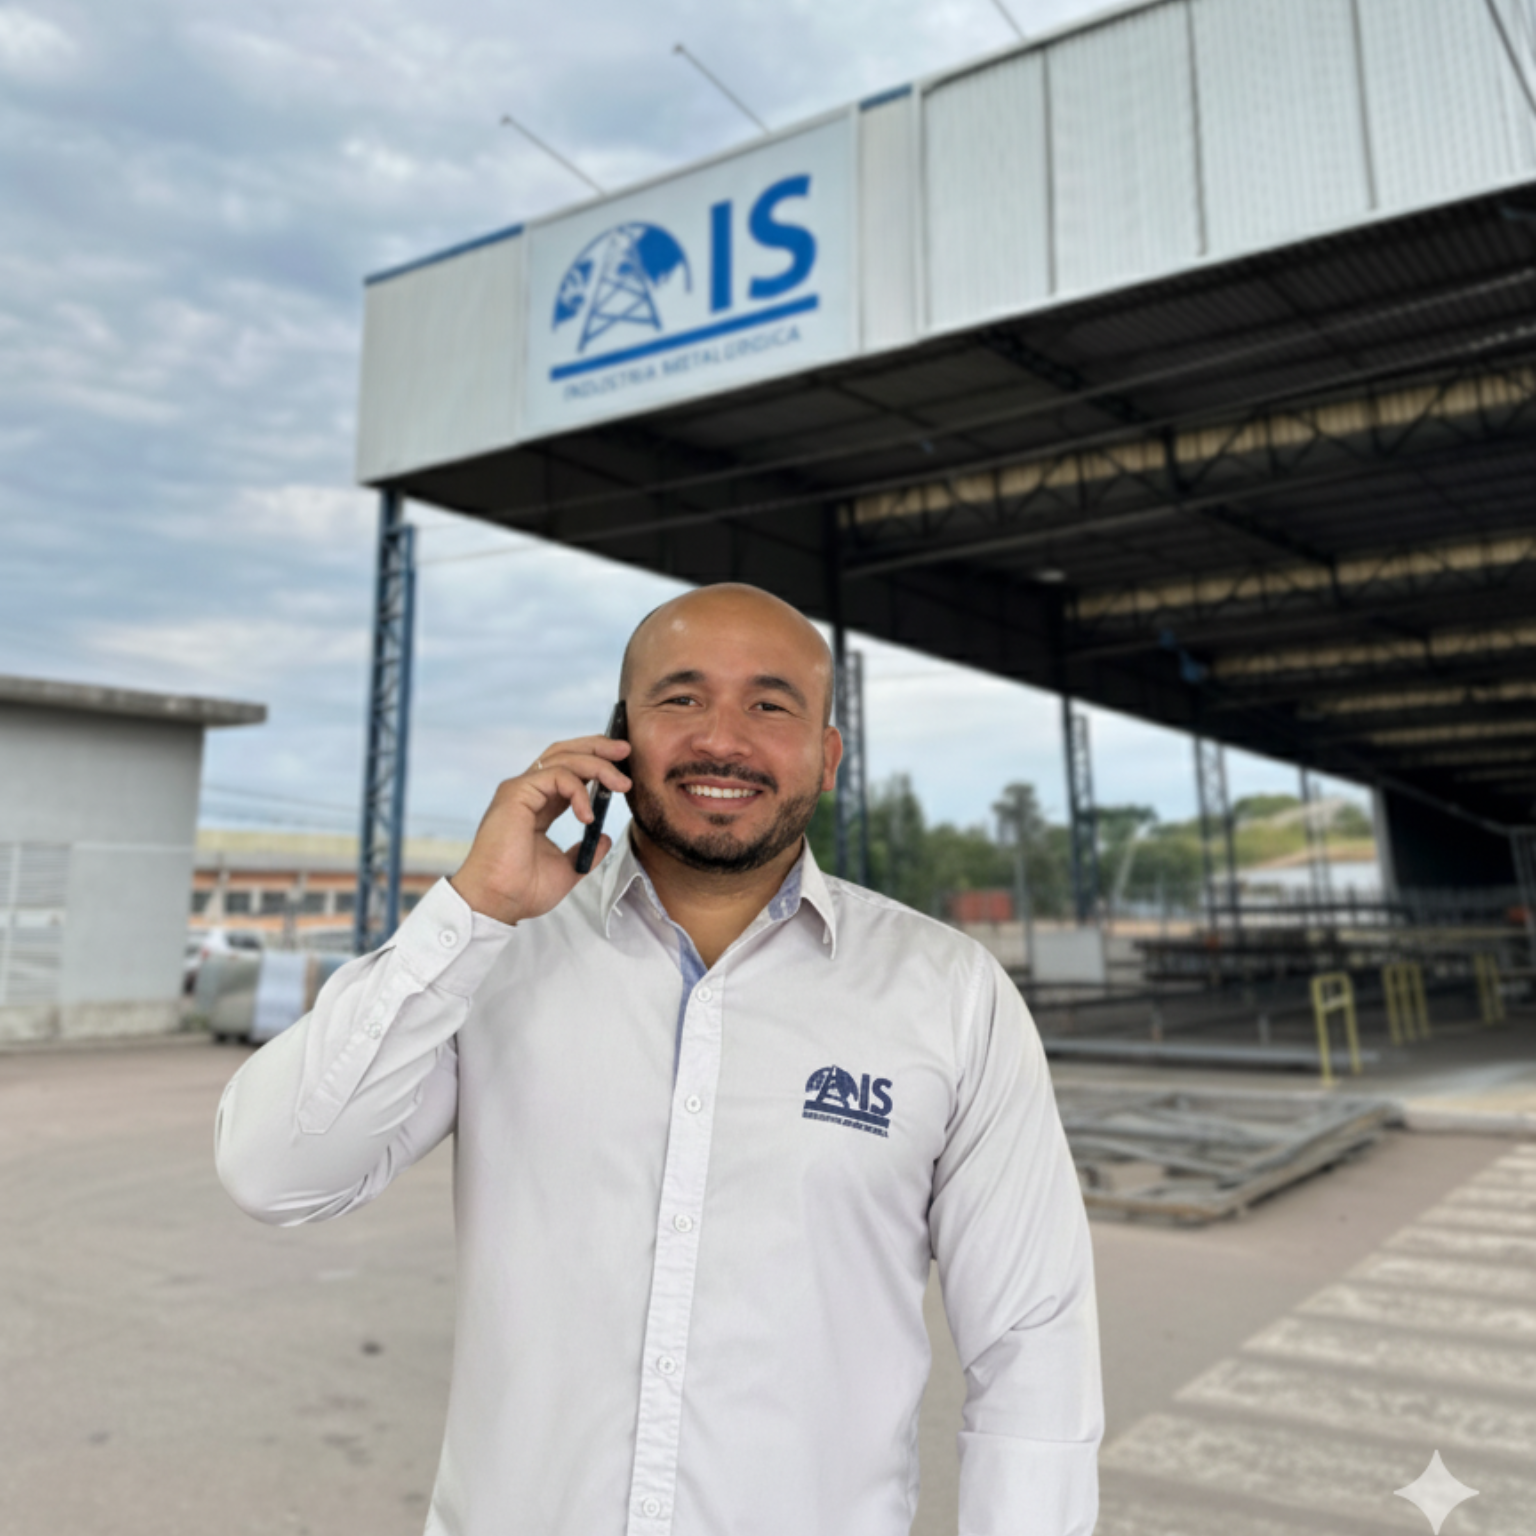
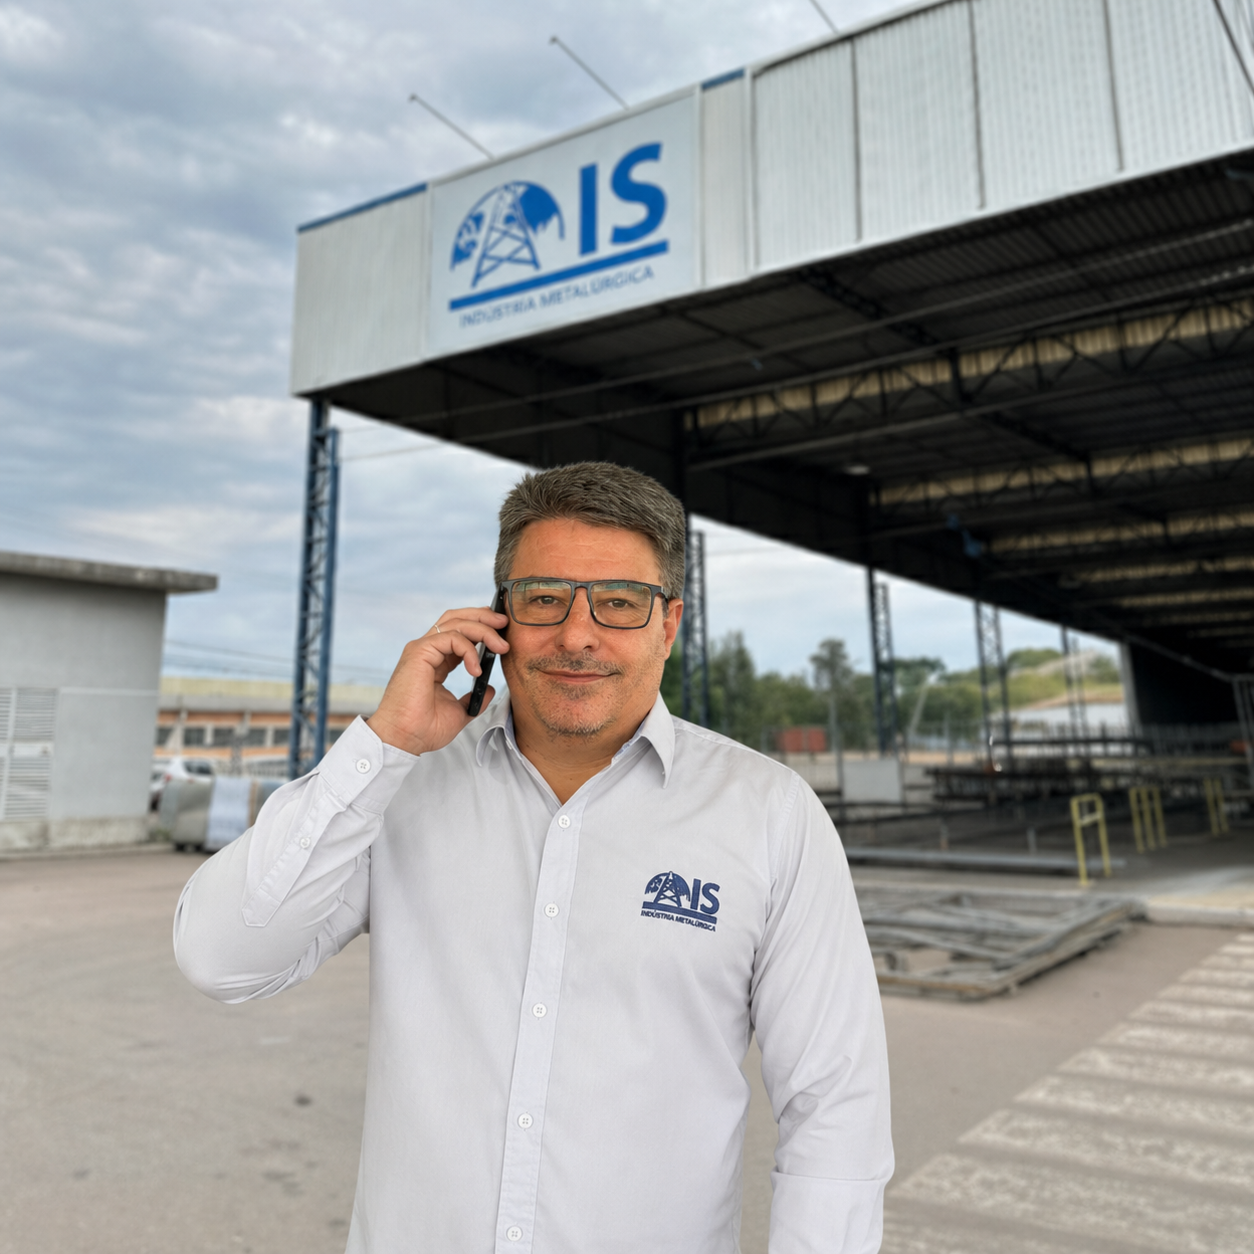
Remove WhatsApp integration and clean up localization files

diff --git a/site-spa/src/pages/Careers.jsx b/site-spa/src/pages/Careers.jsx
@@ -2,9 +2,9 @@
 import { motion } from "framer-motion";
 import {
   ShieldCheck, Timer, Medal, ArrowRight, Briefcase, MapPin,
-  X, UploadCloud, Send, PhoneCall, CheckCircle2
+  X, UploadCloud, Send, CheckCircle2
 } from "lucide-react";
-import { useEffect, useRef, useState, useMemo } from "react";
+import { useEffect, useRef, useState } from "react";
 import peca from "../image/trabalhe.png";
 import { useT, Tx } from "../i18n-helpers";
 
@@ -178,9 +178,6 @@ function Page() {
     }
   };
 
-  const whatsHero = useMemo(() => `https://wa.me/554184944848?text=${encodeURIComponent(t("hero.whatsMsg"))}`, [t]);
-  const whatsForm = useMemo(() => `https://wa.me/554184944848?text=${encodeURIComponent(t("form.whatsMsg"))}`, [t]);
-
   return (
     <div className="bg-white">
       {/* ================= HERO ================= */}
@@ -206,9 +203,6 @@ function Page() {
             <div className="mt-6 flex flex-wrap gap-3">
               <a href="#vagas" className="inline-flex items-center gap-2 rounded-full bg-white px-5 py-3 text-sm font-semibold text-zinc-900 shadow-md hover:bg-white/90">
                 {t("hero.btnJobs")} <ArrowRight className="size-4" />
-              </a>
-              <a href={whatsHero} target="_blank" rel="noreferrer" className="inline-flex items-center gap-2 rounded-full border border-white/30 bg-white/10 px-5 py-3 text-sm font-semibold text-white hover:bg-white/15">
-                {t("hero.btnWhatsApp")}
               </a>
             </div>
           </div>
@@ -379,11 +373,6 @@ function Page() {
                   <Send className="size-4" />
                   {status === "sending" ? "Enviando..." : t("form.submit")}
                 </button>
-
-                <a href={whatsForm} target="_blank" rel="noreferrer" className="inline-flex items-center gap-2 rounded-xl border border-zinc-300 bg-white px-4 py-3 font-semibold hover:bg-zinc-50">
-                  <PhoneCall className="size-4" />
-                  {t("form.whatsapp")}
-                </a>
               </div>
 
               {status === "ok" && (

diff --git a/site-spa/src/pages/Map.jsx b/site-spa/src/pages/Map.jsx
@@ -1,6 +1,6 @@
 // src/pages/Mapa.jsx
 import React, { useRef, useState } from "react";
-import { Globe2, ShieldCheck, MapPin, PhoneCall } from "lucide-react";
+import { Globe2, ShieldCheck, MapPin } from "lucide-react";
 import { motion, useMotionValue, useSpring, useReducedMotion } from "framer-motion";
 import { useTranslation } from "react-i18next";
 import teste from "../image/mapa.png";
@@ -240,7 +240,6 @@ function BrazilMap({
 
 function Page() {
   const { t } = useTranslation();
-  const waMsg = encodeURIComponent(t("maps.waText"));
 
   return (
     <div className="bg-gradient-to-br from-sky-50 via-white to-white">
@@ -383,16 +382,6 @@ function Page() {
                            ring-4 ring-blue-200/50 transition-colors"
               >
                 {t("maps.btnBriefing")}
-              </a>
-              <a
-                href={`https://wa.me/554130330160?text=${waMsg}`}
-                target="_blank"
-                rel="noreferrer"
-                className="inline-flex items-center gap-2 rounded-full border border-zinc-300 bg-white px-4 py-2 text-sm font-semibold
-                           hover:bg-zinc-50 ring-4 ring-zinc-100 transition-colors"
-              >
-                <PhoneCall className="size-4" />
-                {t("maps.btnWhatsApp")}
               </a>
             </div>
           </motion.div>

diff --git a/site-spa/src/pages/QuemSomos.jsx b/site-spa/src/pages/QuemSomos.jsx
@@ -7,7 +7,6 @@ import {
 } from "lucide-react";
 import peca from "../image/empresa.jpg";
 import tr from "../image/empresa.png";
-import joao from "../image/joao.png";
 import luiz from "../image/luiz.png";
 import leandro from "../image/leandro.png";
 import lucas from "../image/lucas.png";
@@ -115,7 +114,6 @@ function Page() {
 
   const team = [
     { name: "Igor Solotoriw",        roleKey: "team.roles.opsDirector",          photo: igor },
-    { name: "João Moreira",          roleKey: "team.roles.qualityEngineer",      photo: joao },
     { name: "Thiago Souza",          roleKey: "team.roles.fieldEngineerImplat",    photo: thiago },
     { name: "Luiz Felipe Moreira",   roleKey: "team.roles.fieldEngineerWind",    photo: luiz },
     { name: "Lucas Alvieiro",        roleKey: "team.roles.paintCoordinator",     photo: lucas },

diff --git a/site-spa/src/pages/About.jsx b/site-spa/src/pages/About.jsx
@@ -7,7 +7,6 @@ import {
 } from "lucide-react";
 import peca from "../image/empresa.jpg";
 import tr from "../image/empresa.png";
-import joao from "../image/joao.png";
 import luiz from "../image/luiz.png";
 import lucas from "../image/lucas.png";
 import igor from "../image/igor.png";
@@ -114,7 +113,6 @@ function Page() {
 
   const team = [
     { name: "Igor Solotoriw",        roleKey: "team.roles.opsDirector",          photo: igor },
-    { name: "João Moreira",          roleKey: "team.roles.qualityEngineer",      photo: joao },
     { name: "Luiz Felipe Moreira",   roleKey: "team.roles.fieldEngineerWind",    photo: luiz },
     { name: "Lucas Alvieiro",        roleKey: "team.roles.paintCoordinator",     photo: lucas },
     { name: "Everton Andrade",       roleKey: "team.roles.projectsPMO",          photo: everton },

diff --git a/site-spa/src/layout/MainLayout.jsx b/site-spa/src/layout/MainLayout.jsx
@@ -2,7 +2,6 @@
 import { Outlet } from "react-router-dom";
 import Navbar from "../components/Navbar";
 import Footer from "../components/Footer";
-import CTAWhatsApp from "../components/CTAWhatsApp";
 import CookieConsent from "../components/CookieConsent";
 
 
@@ -17,7 +16,6 @@ export default function MainLayout() {
       </main>
 
       <Footer />
-      <CTAWhatsApp />
       <CookieConsent />
     </div>
   );
